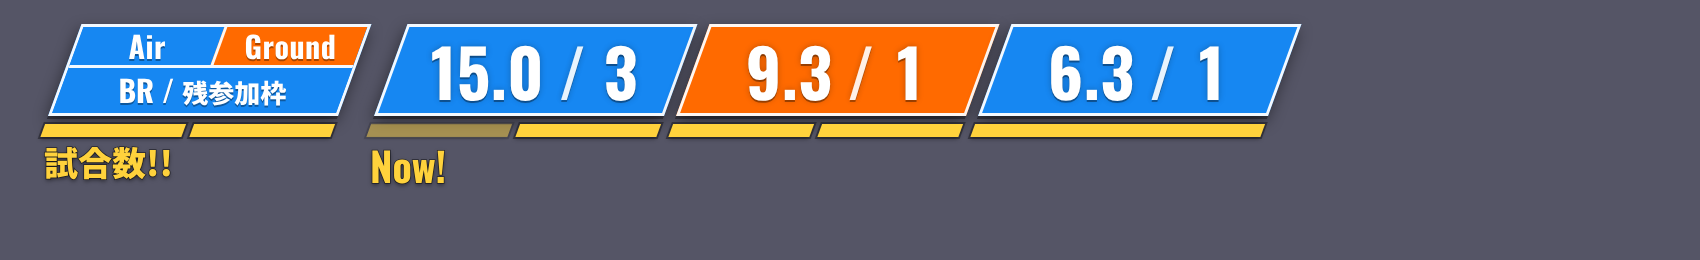
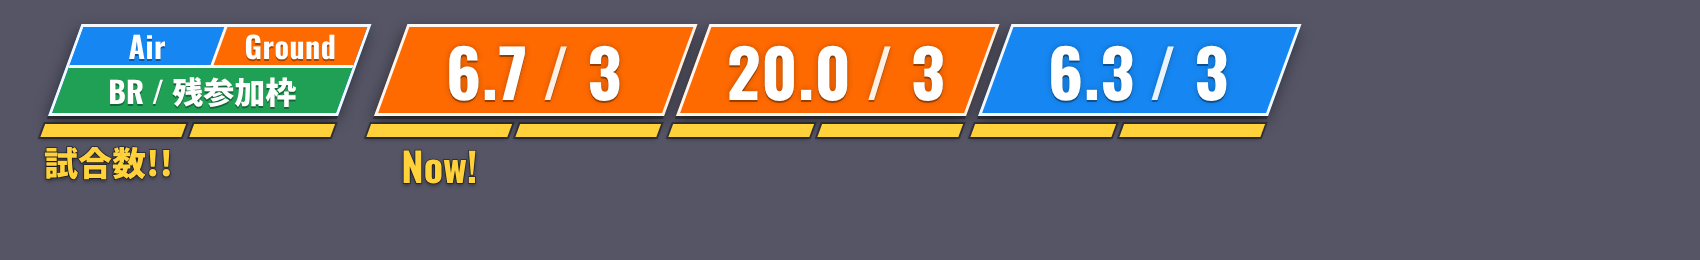
キューの並べ替えアニメーションとメモ欄、見方枠とNow!の位置を調整
- ▲▼で入れ替えたときに滑らかに動かし、動かした区分を一瞬光らせる
- 区分ごとのメモ欄（操作画面のみ、60文字まで）
- 見方枠の「BR / 残参加枠」を緑背景にし、文字を大きく上下中央に
- Now! を今の試合のゲージの真下中央へ（試合が進むと移動）

Claude-Session: https://claude.ai/code/session_01628YofBeBRmR8XJbNnGHq1

Changed region(s): [[0.0312, 0.0923, 0.5612, 0.7077], [0.6859, 0.1846, 0.7482, 0.4], [0.6547, 0.4923, 0.6859, 0.5231]]

diff --git a/src/public/control.html b/src/public/control.html
@@ -68,7 +68,15 @@
 
   /* キュー */
   ol#queue { list-style: none; margin: 0; padding: 0; display: grid; gap: 6px; }
-  ol#queue li { display: grid; grid-template-columns: 28px 64px 1fr auto; gap: 8px; align-items: center; padding: 8px; border-radius: 8px; background: #181c22; border: 1px solid var(--line); }
+  ol#queue li { display: grid; grid-template-columns: 28px 64px 1fr auto; gap: 8px; align-items: center; padding: 8px; border-radius: 8px; background: #181c22; border: 1px solid var(--line); position: relative; }
+  ol#queue li .cells { grid-column: 3 / -1; }
+  ol#queue li .memo { grid-column: 1 / 4; }
+  ol#queue li .ops { grid-column: 4; }
+  .memo { width: 100%; font-size: 13px; padding: 5px 8px; }
+  .memo::placeholder { color: #5d6672; }
+  /* 並べ替えた区分を一瞬光らせて、どれが動いたか分かるようにする */
+  ol#queue li.moved { animation: moved .9s ease-out; }
+  @keyframes moved { 0% { box-shadow: 0 0 0 2px #4b8cff, 0 0 16px rgba(75,140,255,.6); } 100% { box-shadow: 0 0 0 2px transparent; } }
   ol#queue li.first { border-color: var(--gauge); }
   .kind-btn { width: 28px; height: 28px; padding: 0; font-weight: 700; color: #fff; }
   .kind-btn.air { background: var(--air); border-color: var(--air); } .kind-btn.ground { background: var(--ground); border-color: var(--ground); }
@@ -82,8 +90,7 @@
   .toast { position: fixed; left: 50%; bottom: 16px; transform: translateX(-50%); background: #2a313b; border: 1px solid #3a4350; padding: 8px 14px; border-radius: 8px; opacity: 0; transition: opacity .2s; pointer-events: none; max-width: 90vw; }
   .toast.show { opacity: 1; }
   @media (max-width: 560px) {
-    ol#queue li { grid-template-columns: 28px 60px 1fr; }
-    .ops { grid-column: 1 / -1; justify-content: flex-end; }
+    ol#queue li { grid-template-columns: 28px 60px 1fr auto; }
   }
 </style>
 </head>
@@ -197,12 +204,14 @@
   es.onerror = function () { setConn(false, "アプリと通信できません（再接続中）"); };
 
   // ---- 状態変更（すべてここを通す） ----
-  function commit(mutator) {
+  function commit(mutator, opts) {
     if (!loaded) { toast("読み込み中です"); return; }
     history.push(JSON.stringify(state));
     if (history.length > 50) history.shift();
     mutator(state);
-    drawAll(); push();
+    // メモの確定では一覧を描き直さない（直後のボタンのクリックを取りこぼさないため）
+    if (opts && opts.quiet) showPreview(); else drawAll();
+    push();
   }
   function undo() {
     if (!history.length) { toast("戻せる操作がありません"); return; }
@@ -260,8 +269,13 @@
 
     var ol = $("queue");
     if (!state.queue.length) { ol.innerHTML = '<li class="empty" style="display:block">（空）</li>'; return; }
-    var focused = document.activeElement && document.activeElement.dataset && document.activeElement.dataset.act === "br"
-      ? document.activeElement.closest("li").dataset.id : null;
+    // 描き直す前の位置と順番、入力中の欄を覚えておく
+    var before = {}, oldIndex = {};
+    Array.prototype.forEach.call(ol.querySelectorAll("li[data-id]"), function (li, i) { before[li.dataset.id] = li.getBoundingClientRect().top; oldIndex[li.dataset.id] = i; });
+    var ae = document.activeElement, focus = null;
+    if (ae && ae.closest && ae.closest("#queue li[data-id]") && ae.dataset.act) {
+      focus = { id: ae.closest("li").dataset.id, act: ae.dataset.act, sel: ae.selectionStart != null ? [ae.selectionStart, ae.selectionEnd] : null };
+    }
     ol.innerHTML = state.queue.map(function (e, i) {
       return '<li class="' + (i === 0 ? "first" : "") + '" data-id="' + e.id + '">' +
         '<button class="kind-btn ' + e.kind + '" data-act="kind" title="空/陸を切り替え">' + kindName(e.kind) + "</button>" +
@@ -270,12 +284,27 @@
         '<span class="cell"><span class="lab">残参加枠</span><span class="stepper"><button data-act="slots:-1">−</button><output>' + e.slots + '</output><button data-act="slots:1">＋</button></span></span>' +
         '<span class="cell"><span class="lab">試合</span><span class="stepper"><button data-act="games:-1">−</button><output>' + (e.games - e.played) + "/" + e.games + '</output><button data-act="games:1">＋</button></span></span>' +
         pips(e) + "</div>" +
+        '<input class="memo" data-act="memo" maxlength="60" placeholder="メモ" value="' + esc(e.memo || "") + '" aria-label="メモ">' +
         '<div class="ops"><button data-act="up" title="上へ"' + (i === 0 ? " disabled" : "") + '>▲</button>' +
         '<button data-act="down" title="下へ"' + (i === state.queue.length - 1 ? " disabled" : "") + '>▼</button>' +
         '<button data-act="del" class="warn" title="削除">✕</button></div></li>';
     }).join("");
-    if (focused) { var inp = ol.querySelector('li[data-id="' + focused + '"] .br-in'); if (inp) inp.focus(); }
+    if (focus) {
+      var el = ol.querySelector('li[data-id="' + focus.id + '"] [data-act="' + focus.act + '"]');
+      if (el && !el.disabled) { el.focus(); if (focus.sel && el.setSelectionRange) try { el.setSelectionRange(focus.sel[0], focus.sel[1]); } catch (e) {} }
+    }
+    // 位置が変わった区分を元の位置から滑らかに動かす（FLIP）
+    Array.prototype.forEach.call(ol.querySelectorAll("li[data-id]"), function (li, i) {
+      var id = li.dataset.id;
+      if (before[id] == null) return;
+      var dy = before[id] - li.getBoundingClientRect().top;
+      if (Math.abs(dy) > 0.5 && li.animate) li.animate([{ transform: "translateY(" + dy + "px)" }, { transform: "none" }], { duration: 280, easing: "cubic-bezier(.2,.8,.2,1)" });
+      if (oldIndex[id] !== i && Math.abs(oldIndex[id] - i) === 1 && movedId === id) li.classList.add("moved");
+    });
+    movedId = null;
   }
+
+  var movedId = null; // ▲▼で動かした区分（光らせる対象）
 
   function drawSettings() {
     var st = state.settings;
@@ -300,7 +329,8 @@
       var i = find(id); if (i < 0) return;
       var e = s.queue[i];
       if (act === "kind") e.kind = e.kind === "air" ? "ground" : "air";
-      else if (act === "up" && i > 0) { s.queue.splice(i, 1); s.queue.splice(i - 1, 0, e); e.live = false; s.queue[i].live = false; }
+      if (act === "up" || act === "down") movedId = id;
+      if (act === "up" && i > 0) { s.queue.splice(i, 1); s.queue.splice(i - 1, 0, e); e.live = false; s.queue[i].live = false; }
       else if (act === "down" && i < s.queue.length - 1) { s.queue.splice(i, 1); s.queue.splice(i + 1, 0, e); e.live = false; s.queue[i].live = false; }
       else if (act === "del") s.queue.splice(i, 1);
       else if (act.indexOf("slots:") === 0) e.slots = clamp(e.slots + +act.split(":")[1], 0, MAX_SLOTS);
@@ -308,12 +338,18 @@
     });
   });
   $("queue").addEventListener("change", function (ev) {
-    var inp = ev.target; if (inp.dataset.act !== "br") return;
+    var inp = ev.target;
+    if (inp.dataset.act === "memo") {
+      var mid = inp.closest("li").dataset.id, memo = inp.value.trim().slice(0, 60);
+      commit(function (s) { var i = find(mid); if (i >= 0) s.queue[i].memo = memo; }, { quiet: true });
+      return;
+    }
+    if (inp.dataset.act !== "br") return;
     var id = inp.closest("li").dataset.id, br = fmtBR(inp.value);
     if (!br) { toast("BRの値が正しくありません"); draw(); return; }
     commit(function (s) { var i = find(id); if (i >= 0) s.queue[i].br = br; });
   });
-  $("queue").addEventListener("keydown", function (ev) { if (ev.key === "Enter" && ev.target.dataset.act === "br") ev.target.blur(); });
+  $("queue").addEventListener("keydown", function (ev) { if (ev.key === "Enter" && (ev.target.dataset.act === "br" || ev.target.dataset.act === "memo")) ev.target.blur(); });
 
   $("kAir").onclick = function () { draft.kind = "air"; drawDraft(); };
   $("kGround").onclick = function () { draft.kind = "ground"; drawDraft(); };

diff --git a/src/public/overlay.html b/src/public/overlay.html
@@ -17,6 +17,7 @@
     --legend-gap: calc(var(--gap) * 3);  /* 見方枠と右側の間隔（通常の3倍） */
     --gauge-gap: 8px;   /* プレートとゲージの間隔 */
     --scale: 1;
+    --legend-green: #1fa055;  /* 見方枠「BR / 残参加枠」の背景 */
     --font-num: "Oswald", "Bahnschrift", "Arial Narrow", Impact, sans-serif;
     --font-jp: "Oswald", "Noto Sans JP", "Yu Gothic UI", "Meiryo", sans-serif;
   }
@@ -74,7 +75,9 @@
     text-shadow: 0 2px 4px rgba(0,0,0,.5);
     opacity: 0; transform: translateY(-6px); transition: opacity .35s, transform .35s;
   }
-  .entry.first .now { opacity: 1; transform: none; }
+  /* Now! は今の試合（ゲージの該当バー）の真下の中央に置く。left は JS で計算 */
+  .entry .now { position: relative; left: 0; width: max-content; margin-left: 0; transform: translate(-50%, -6px); transition: opacity .35s, transform .35s, left .35s ease; }
+  .entry.first .now { opacity: 1; transform: translate(-50%, 0); }
 
   /* 見方（凡例）枠：左端に固定 */
   .legend { margin-right: var(--legend-gap); }
@@ -84,15 +87,15 @@
   .lg-top > div { flex: 1 1 0; display: flex; align-items: center; justify-content: center; }
   .lg-air { background: var(--air); }
   .lg-ground { background: var(--ground); border-left: 3px solid rgba(255,255,255,.95); }
-  .lg-bottom { flex: 1 1 auto; display: flex; align-items: center; justify-content: center; background: var(--air); }
+  .lg-bottom { flex: 1 1 auto; display: flex; align-items: center; justify-content: center; background: var(--legend-green); }
   .lg-text {
     transform: skewX(calc(var(--skew) * -1));
     color: #fff; font-weight: 700; line-height: 1; white-space: nowrap;
     text-shadow: 0 2px 0 rgba(0,0,0,.35);
   }
   .lg-top .lg-text { font-family: var(--font-num); font-size: 30px; letter-spacing: .5px; }
-  .lg-bottom .lg-text { font-family: var(--font-jp); font-size: 30px; }
-  .lg-bottom .jp { font-family: "Noto Sans JP", "Yu Gothic UI", "Meiryo", sans-serif; font-weight: 900; font-size: 26px; }
+  .lg-bottom .lg-text { font-family: var(--font-num); font-size: 30px; display: flex; align-items: center; gap: 8px; }
+  .lg-bottom .jp { font-family: "Noto Sans JP", "Yu Gothic UI", "Meiryo", sans-serif; font-weight: 900; font-size: 31px; line-height: 1; }
   .legend .now { opacity: 1; transform: none; font-family: "Noto Sans JP", "Yu Gothic UI", "Meiryo", sans-serif; font-weight: 900; font-size: 34px; }
 
   .pop { animation: pop .35s ease-out; }
@@ -107,7 +110,7 @@
         <div class="lg-air"><span class="lg-text">Air</span></div>
         <div class="lg-ground"><span class="lg-text">Ground</span></div>
       </div>
-      <div class="lg-bottom"><span class="lg-text">BR / <span class="jp">残参加枠</span></span></div>
+      <div class="lg-bottom"><span class="lg-text"><span>BR /</span><span class="jp">残参加枠</span></span></div>
     </div>
     <div class="gauge"><i class="seg"></i><i class="seg"></i></div>
     <div class="now">試合数!!</div>
@@ -157,6 +160,19 @@
     for (var i = 0; i < g.children.length; i++) {
       g.children[i].className = "seg" + (i < e.played ? " used" : "") + (i === e.played && e.live ? " live" : "");
     }
+    placeNow(el, e);
+  }
+
+  // Now! を今の試合のバー（played 番目）の中央の真下へ。
+  // offsetLeft は変形（アニメーションや傾き）の影響を受けないので、傾きの分だけ自分で補正する
+  var TAN = Math.tan(20 * Math.PI / 180);
+  function placeNow(el, e) {
+    var seg = el.querySelector(".gauge").children[Math.min(e.played, e.games - 1)];
+    var now = el.querySelector(".now");
+    if (!seg || !now) return;
+    var gaugeGap = parseFloat(getComputedStyle(el).getPropertyValue("--gauge-gap")) || 8;
+    var skewShift = (gaugeGap + seg.offsetHeight / 2) * TAN;  // ゲージは上に向かって右へ傾いている
+    now.style.left = (seg.offsetLeft + seg.offsetWidth / 2 - skewShift) + "px";
   }
 
   function rectsOf(ids) {

diff --git a/test/server.test.js b/test/server.test.js
@@ -33,7 +33,7 @@ function readSSE(onEvent) {
 test("sanitizeState は不正な値を補正する", () => {
   const s = sanitizeState({
     queue: [
-      { id: "a", kind: "ground", br: "9.3", slots: 7, games: 0, played: 5, live: "yes" },
+      { id: "a", kind: "ground", br: "9.3", slots: 7, games: 0, played: 5, live: "yes", memo: "  フレンド\n枠 " },
       { id: "b", kind: "x", br: "abc" },
       { id: "a", kind: "air", br: "1" },
       { id: "<c>", kind: "air", br: 14 },
@@ -41,8 +41,8 @@ test("sanitizeState は不正な値を補正する", () => {
     settings: { showLegend: false, defaultGames: 99 },
   });
   assert.deepStrictEqual(s.queue, [
-    { id: "a", kind: "ground", br: "9.3", slots: 3, games: 1, played: 0, live: false },
-    { id: "c", kind: "air", br: "14.0", slots: 0, games: 2, played: 0, live: false },
+    { id: "a", kind: "ground", br: "9.3", slots: 3, games: 1, played: 0, live: false, memo: "フレンド枠" },
+    { id: "c", kind: "air", br: "14.0", slots: 0, games: 2, played: 0, live: false, memo: "" },
   ]);
   assert.deepStrictEqual(s.settings, { showLegend: false, defaultGames: 9, defaultSlots: 3 });
 });
@@ -68,7 +68,7 @@ test("サーバー: 状態の更新・配信・保存", async (t) => {
   const sse = await readSSE((e) => events.push(e));
   t.after(() => sse.destroy());
 
-  const state = { queue: [{ id: "x1", kind: "air", br: "15.0", slots: 3, games: 2, played: 0, live: true }], settings: { showLegend: true, defaultGames: 2, defaultSlots: 3 } };
+  const state = { queue: [{ id: "x1", kind: "air", br: "15.0", slots: 3, games: 2, played: 0, live: true, memo: "〇〇さん" }], settings: { showLegend: true, defaultGames: 2, defaultSlots: 3 } };
   const r = await fetch(base + "/api/state", { method: "PUT", headers: { "Content-Type": "application/json" }, body: JSON.stringify({ state }) });
   assert.strictEqual(r.status, 200);
   assert.strictEqual((await r.json()).rev, 1);

diff --git a/src/state.js b/src/state.js
@@ -42,6 +42,7 @@ function sanitizeEntry(e) {
     games,
     played: int(e.played, 0, games - 1, 0),
     live: e.live === true,
+    memo: typeof e.memo === "string" ? e.memo.replace(/[\u0000-\u001f]/g, "").trim().slice(0, 60) : "",
   };
 }
 

diff --git a/README.md b/README.md
@@ -22,7 +22,7 @@ WarThunder の分隊で行くランク（空/陸・BR・残参加枠・残り試
 | 青 / オレンジのプレート | 空 / 陸 |
 | `15.0 / 3` | BR / 残参加枠 |
 | 黄色ゲージ | 残り試合数（既定 2）。試合が終わるごとに左から消え、進行中は点滅 |
-| `Now!` | 今の区分（左端） |
+| `Now!` | 今の区分。今の試合のゲージの真下に表示 |
 | 左端の「見方」枠 | 凡例。表示設定でオン/オフ |
 
 区分の試合がすべて終わると、その区分は上へスライドして消え、残りが左に詰まります。
@@ -36,6 +36,7 @@ WarThunder の分隊で行くランク（空/陸・BR・残参加枠・残り試
 - **Esc**: 試合開始の取り消し
 - **Ctrl+Z**: 元に戻す
 - キュー一覧（上から消化）から BR・空/陸・残参加枠・試合数・順番（▲▼）・削除を直接変更できます。
+- 区分ごとにメモを残せます（操作画面だけに表示され、配信には映りません）。
 - 「テキストでコピー」で従来の `空14.0@2 -> 陸9.3@1` 形式をクリップボードへコピーします。
 
 キューと設定はアプリのデータフォルダ（メニュー「ファイル → 設定フォルダを開く」）の `state.json` に保存され、次回起動時に復元されます。
